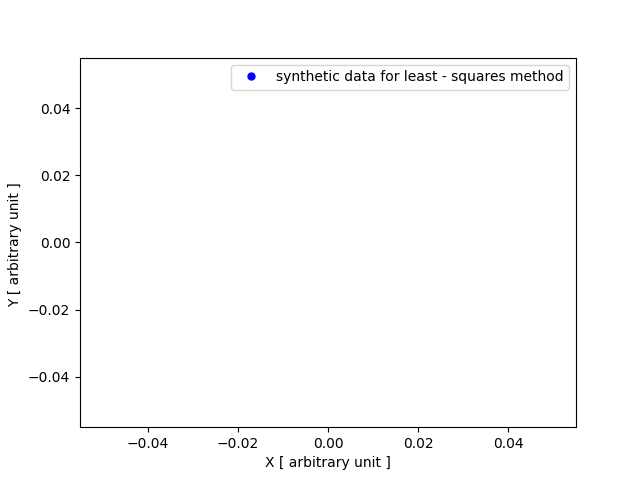
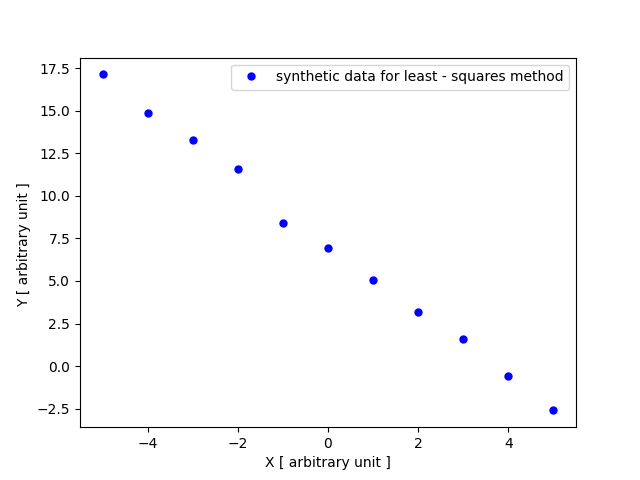
finish the Astro code for week 5

diff --git a/S05/S05_03.py b/S05/S05_03.py
@@ -13,14 +13,14 @@ data_y = np.array([])
 with open ("data", 'r') as f :
     for line in f:
         (x_buf, y_buf) = line.split()
-        np.append(data_x,float(x_buf))
-        np.append(data_y,float(y_buf))
+        data_x = np.append(data_x,float(x_buf))
+        data_y = np.append(data_y,float(y_buf))
 
 def residual(param, x, y):
     residue = param[0]*x + param[1]-y
     return residue
 
-param0 = [1, 12]
+param0 = np.array([1, 12])
 
 least = sp.optimize.least_squares(residual, param0, args = (data_x, data_y))
 

diff --git a/S05/S05_02.py b/S05/S05_02.py
@@ -1,6 +1,5 @@
 import scipy as sp
-
-#TODO Print the curve
+import matplotlib as plt
 
 def curve(x):
     y = -x**(1/x)
@@ -8,4 +7,4 @@ def curve(x):
 
 min = sp.optimize.minimize_scalar(curve, method = 'brent')
 
-print(min)
+print(f"the minimum of the function is {min.fun} at x = {min.x}")
